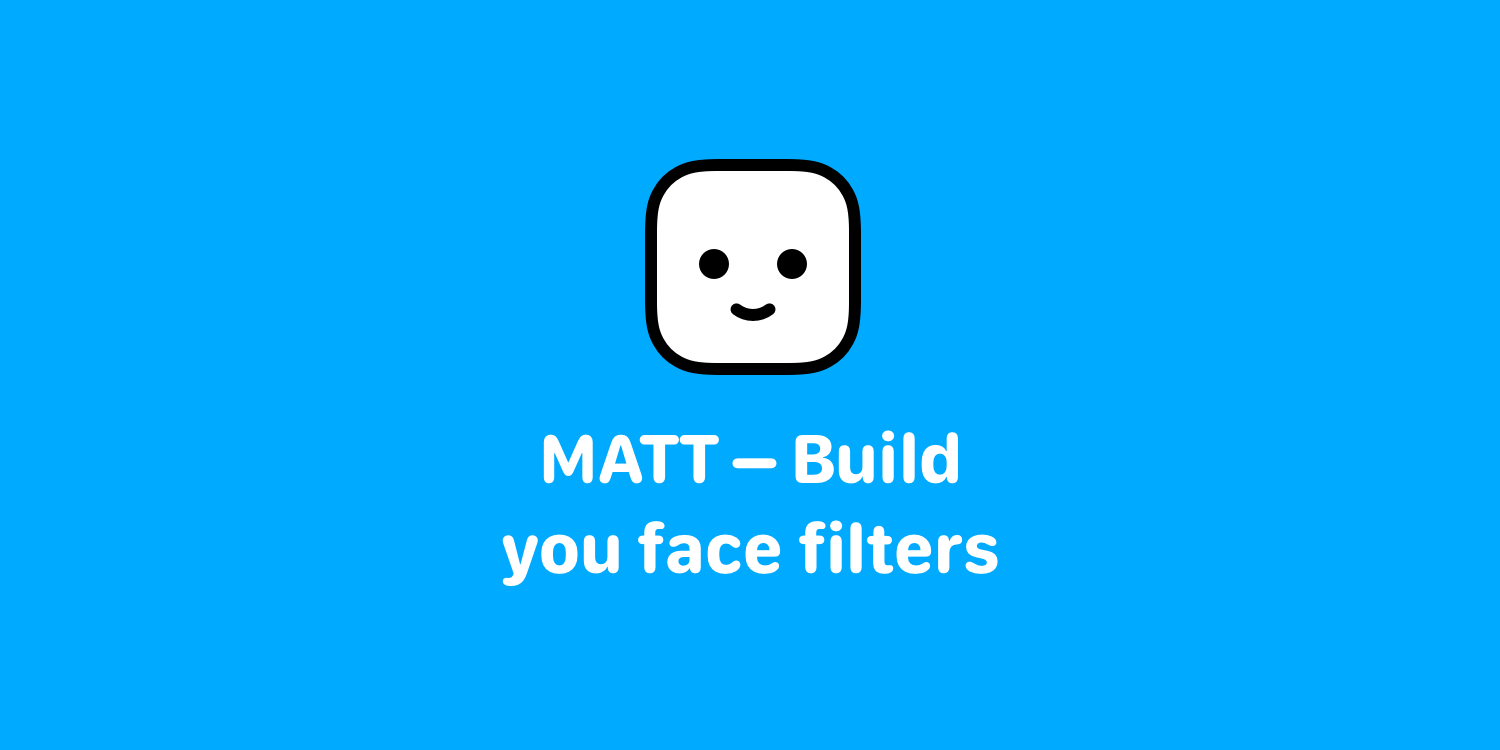
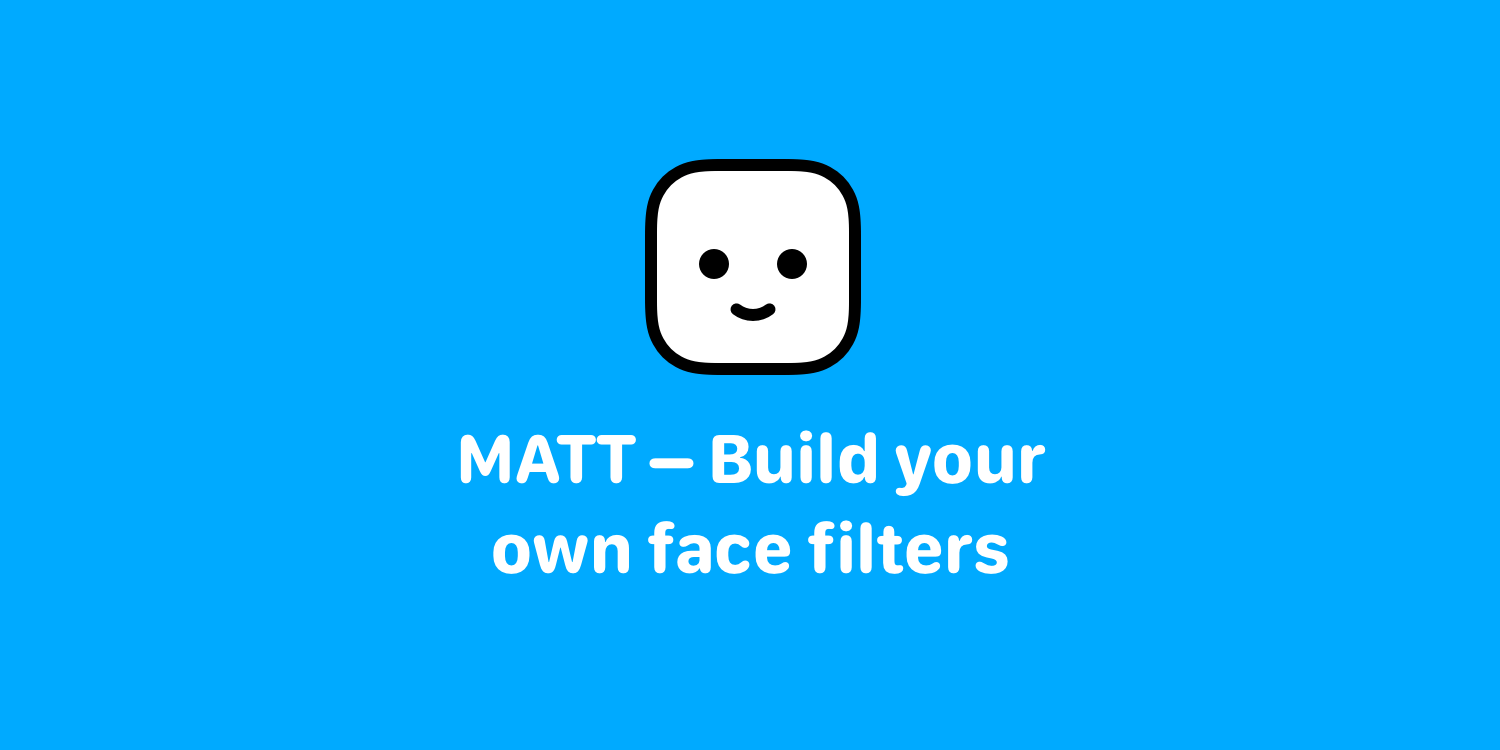
Update qr, title, store link and snippet

Changed region(s): [[0.3067, 0.6747, 0.6747, 0.7973], [0.3067, 0.552, 0.7053, 0.6747]]

diff --git a/index.html b/index.html
@@ -6,7 +6,7 @@
 	<meta http-equiv="X-UA-Compatible" content="ie=edge">
 	<link rel="shortcut icon" href="./favicon.ico" />
 	<meta name="theme-color" content="#000000" />
-	<meta name="description" content="MATT – Build you face filters" />
+	<meta name="description" content="MATT – Build your own face filters" />
 	<meta property="og:title" content="Matt" />
 	<meta property="og:image" content="./snippet.png" />
 	<link rel="stylesheet" href="./style/index.css">
@@ -28,8 +28,8 @@
 											</div>
 										</div>
 									</div>
-									<div class="Content__title">MATT&nbsp;– Build you&nbsp;face&nbsp;filters</div>
-									<a href="https://apps.apple.com/ru/app/matt-build-your-face-filters/id1496718575"
+									<div class="Content__title">MATT&nbsp;– Build your own&nbsp;face&nbsp;filters</div>
+									<a href="https://mattfun.app.link/88HUHShk03"
 										 target="_blank"
 										 rel="noreferrer noopener"
 										 class="Content__app_store">
@@ -39,7 +39,7 @@
 										</div>
 									</a>
 									<div class="Content__qr">
-										<svg height="76" viewBox="0 0 220 76" width="220" xmlns="http://www.w3.org/2000/svg"><path d="m12.819426 72h194.361148c4.457594 0 6.074025.4641281 7.703655 1.3356635 1.629629.8715355 2.908572 2.1504784 3.780107 3.780108.871536 1.6296296 1.335664 3.2460608 1.335664 7.7036545v50.361148c0 4.457594-.464128 6.074025-1.335664 7.703655-.871535 1.629629-2.150478 2.908572-3.780107 3.780107-1.62963.871536-3.246061 1.335664-7.703655 1.335664h-194.361148c-4.4575937 0-6.07402489-.464128-7.70365452-1.335664-1.62962963-.871535-2.9085725-2.150478-3.78010796-3.780107-.87153546-1.62963-1.33566352-3.246061-1.33566352-7.703655v-50.361148c0-4.4575937.46412806-6.0740249 1.33566352-7.7036545s2.15047833-2.9085725 3.78010796-3.780108c1.62962963-.8715354 3.24606082-1.3356635 7.70365452-1.3356635z" fill="#fff" transform="translate(0 -72)"/></svg>
+										<svg height="78" viewBox="0 0 220 78" width="220" xmlns="http://www.w3.org/2000/svg"><path d="m12.819426 60h194.361148c4.457594 0 6.074025.4641281 7.703655 1.3356635 1.629629.8715355 2.908572 2.1504784 3.780107 3.780108.871536 1.6296296 1.335664 3.2460608 1.335664 7.7036545v52.361148c0 4.457594-.464128 6.074025-1.335664 7.703655-.871535 1.629629-2.150478 2.908572-3.780107 3.780107-1.62963.871536-3.246061 1.335664-7.703655 1.335664h-194.361148c-4.4575937 0-6.07402489-.464128-7.70365452-1.335664-1.62962963-.871535-2.9085725-2.150478-3.78010796-3.780107-.87153546-1.62963-1.33566352-3.246061-1.33566352-7.703655v-52.361148c0-4.4575937.46412806-6.0740249 1.33566352-7.7036545s2.15047833-2.9085725 3.78010796-3.780108c1.62962963-.8715354 3.24606082-1.3356635 7.70365452-1.3356635z" fill="#fff" transform="translate(0 -60)"/></svg>
 										<div class="Content__qr_code"></div>
 										<div class="Content__qr_separator"></div>
 										<div class="Content__qr_text">Scan QR-code to&nbsp;download MATT on&nbsp;your phone</div>

diff --git a/style/index.css b/style/index.css
@@ -193,7 +193,7 @@ li {
 	flex-wrap: wrap;
 	align-items: center;
 	width: 220px;
-	padding: 12px;
+	padding: 10px;
 }
 
 .Content__qr > svg {
@@ -207,8 +207,8 @@ li {
 }
 
 .Content__qr_code {
-	width: 52px;
-	height: 52px;
+	width: 58px;
+	height: 58px;
 	background-image: url("../img/qr_code.png");
 	background-size: cover;
 	background-repeat: no-repeat;
@@ -218,8 +218,8 @@ li {
 .Content__qr_separator {
 	display: block;
 	width: 1px;
-	height: 36px;
-	margin: 0 12px;
+	height: 38px;
+	margin: 0 10px;
 	content: '';
 	opacity: .44;
 	border-radius: 1px;
